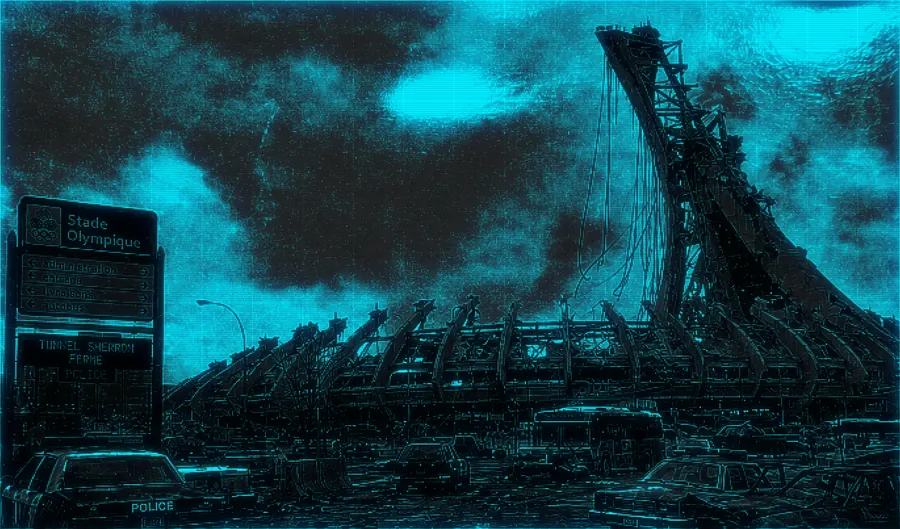
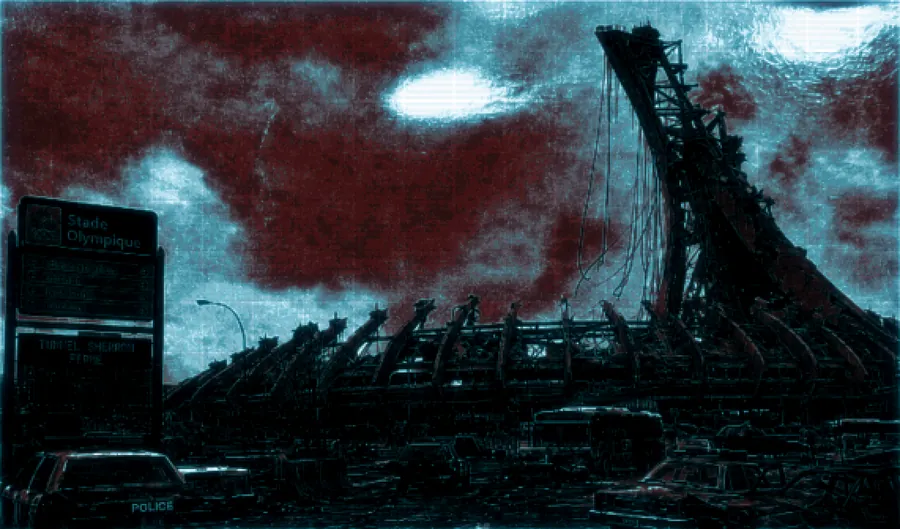
Lock DeadMTL homepage visual direction new frontpage hero path: assets/stadium_neon.blue-neon-readable.png

diff --git a/src/styles/_terminal.scss b/src/styles/_terminal.scss
@@ -1649,11 +1649,12 @@
   width: 100%;
   height: clamp(400px, 65vh, 780px);
   object-fit: cover;
-  // Shifted from 25% to 42% — brings the collapsed roof-beam ruins into frame
-  // while keeping the tower silhouette visible at the top
+  // blue-neon-readable source — ruins visible, red sky intact
+  // 52% anchor shows lower roof beams; slight pull toward centre
   object-position: center 52%;
-  // Let the cyan scene breathe — reduced dimming, slight contrast lift
-  filter: brightness(0.72) saturate(1.08) contrast(1.02);
+  // Gentle dimming — image already has good contrast; reduce saturation to
+  // let cyan dominate while keeping the red sky as threat accent, not dominant
+  filter: brightness(0.74) saturate(1.02) contrast(1.05);
   transition: filter 0.3s ease;
 }
 

diff --git a/scripts/make-hero-v2.py b/scripts/make-hero-v2.py
@@ -1,0 +1,30 @@
+from PIL import Image
+import os
+
+src = "E:/Omni/Zomboid/deadmtl-site/assets/stadium_neon.blue-neon-readable.png"
+out_dir = "E:/Omni/Zomboid/deadmtl-site/public/images/home"
+os.makedirs(out_dir, exist_ok=True)
+
+img = Image.open(src)
+print(f"Source: {img.size[0]}x{img.size[1]}, mode={img.mode}")
+
+# Full 1920px hero
+w_full, h_full = 1920, int(img.size[1] * (1920 / img.size[0]))
+hero = img.resize((w_full, h_full), Image.LANCZOS)
+
+out_webp = out_dir + "/deadmtl-hero.webp"
+hero.save(out_webp, "WEBP", quality=84, method=6)
+print(f"WebP  {w_full}x{h_full}  {os.path.getsize(out_webp)//1024}KB  -> {out_webp}")
+
+out_jpg = out_dir + "/deadmtl-hero.jpg"
+hero.save(out_jpg, "JPEG", quality=86, optimize=True, progressive=True)
+print(f"JPG   {w_full}x{h_full}  {os.path.getsize(out_jpg)//1024}KB  -> {out_jpg}")
+
+# Mobile 900px
+w_sm, h_sm = 900, int(img.size[1] * (900 / img.size[0]))
+hero_sm = img.resize((w_sm, h_sm), Image.LANCZOS)
+out_sm = out_dir + "/deadmtl-hero-sm.webp"
+hero_sm.save(out_sm, "WEBP", quality=80, method=6)
+print(f"SM    {w_sm}x{h_sm}  {os.path.getsize(out_sm)//1024}KB  -> {out_sm}")
+
+print("Done. Originals untouched.")
